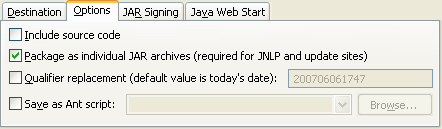
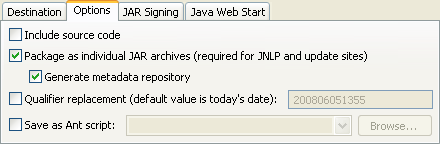
docs about exported features are updated

Changed region(s): [[0.0, 0.0, 1.0, 1.0]]

diff --git a/bundles/org.eclipse.pde.doc.user/guide/tools/export_wizards/export_features.htm b/bundles/org.eclipse.pde.doc.user/guide/tools/export_wizards/export_features.htm
@@ -43,7 +43,7 @@
 <p class="style2">Options</p>
 <p><img src="../../images/export_wizards/options_features.png" alt="Options" hspace="30"></p>
 <p>The <strong>Include source code</strong> option results in the exporting of source code as well as binaries. If a plug-in is packaged as a JAR, the source code will be placed in a <em>src/</em> folder at the root of the JAR. If the plug-in is packaged as a flat directory, the source code will be placed in a source ZIP inside the plug-in directory as a sibling to the library JAR. Refer to the <a href="../preference_pages/source_code_locations.htm">Source Code Locations</a> document for details on the source archive naming convention. </p>
-<p>The <strong>Package as individual JAR archives</strong> option packages features and their constituent plug-ins as JARs. If the option is not selected, then the features are exported as flat directories, while their constituent plug-ins are packaged as specified in the <em>feature.xml</em> markup. Plug-in entries that are marked with <em><strong>unpack=&quot;false&quot;</strong></em> in the <em>feature.xml</em> are exported as JARs; otherwise, they are exported as directories. </p>
+<p>The <strong>Package as individual JAR archives</strong> option packages features and their constituent plug-ins as JARs. If the option is not selected, then the features are exported as flat directories, while their constituent plug-ins are packaged as specified in the <em>feature.xml</em> markup. Plug-in entries that are marked with <em><strong>unpack=&quot;false&quot;</strong></em> in the <em>feature.xml</em> are exported as JARs; otherwise, they are exported as directories. Furthermore, the <strong>Generate metadata repository</strong> option allows you to also generate p2 metadata along with your exported feature.</p>
 <p>The <strong>Qualifier replacement</strong> option enables you to substitute a value for the qualifier element in a plug-in's version or feature's version.  The version must be in the following format: &lt;<em>major</em>&gt;.&lt;<em>minor</em>&gt;.&lt;<em>micro</em>&gt;.qualifier.  For example: 3.3.0.qualifier. Normally, the qualifier represents a build date or identifier.</p>
 <p>The <strong>Save as Ant script</strong> option lets you save the settings of the export operation so that it can be re-executed at a later time without having to go through the wizard again. Like the export operation, the Ant task runs as an asynchronous job; therefore, it may not be suitable to incorporate it as a part of a larger Ant script. </p>
 <p>&nbsp;</p>
